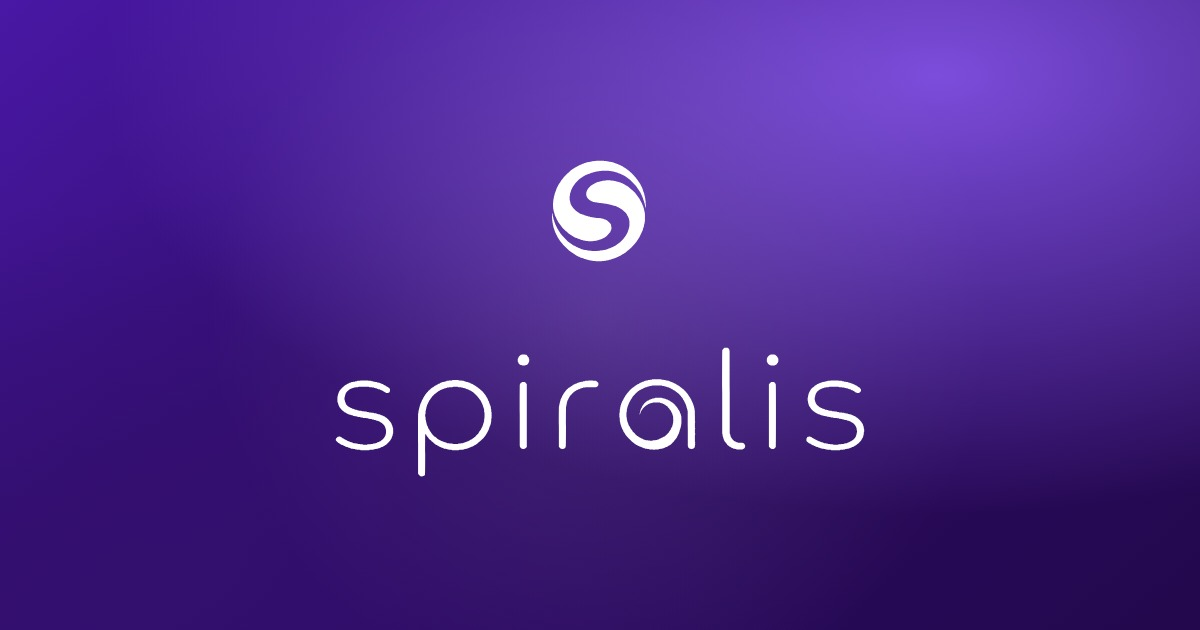
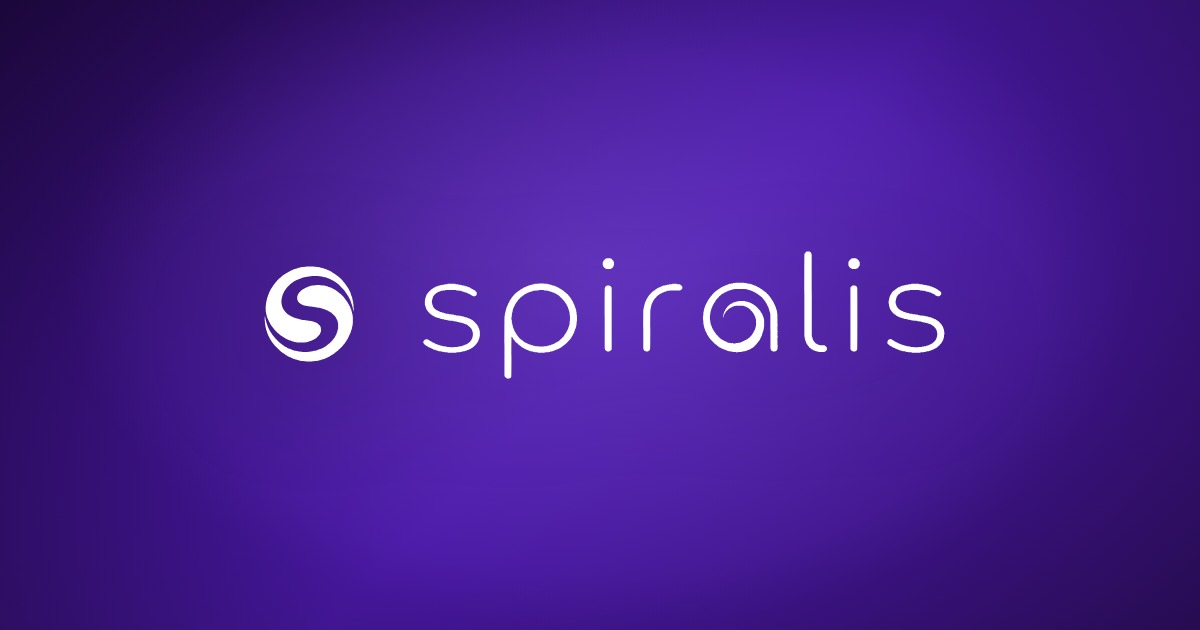
chore: gera a capa social a partir do lockup oficial
_og-card.html já existia como fonte do card e usa o logo completo em
branco, com a vinheta e a rampa de roxos da marca. Passa a ser a única
fonte da capa, e o comentário deixa de apontar para um .png que a meta
tag nunca referenciou.

diff --git a/_og-card.html b/_og-card.html
@@ -5,7 +5,8 @@
 <title>Spiralis — OG card source</title>
 <!--
   Source for the social share card (og:image / twitter:image).
-  Rendered at exactly 1200x630 and rasterized to og-spiralis.png.
+  Rendered at exactly 1200x630 and rasterized to og-spiralis.jpg, which is
+  the file index.html points og:image and twitter:image at.
   This file is a build input, not a published page.
 -->
 <style>
